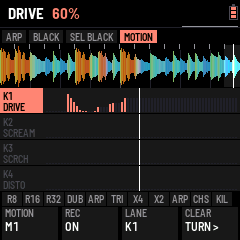
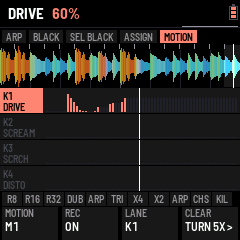
ARP › ASSIGN: the SEL + K1-K4 functions next to MOTION (KICK › MORE's kept)
Claude-Session: https://claude.ai/code/session_01SezACdoJJxH9cT2JHvLkit

Changed region(s): [[0.4958, 0.1167, 0.8458, 0.2042], [0.875, 0.9042, 0.9625, 0.9625]]

diff --git a/app/site/controlmap.html b/app/site/controlmap.html
@@ -237,6 +237,7 @@
     { id: "arp", btn: "ARP", name: "ARP", sub: "Sixteen effects over everything; the black keys' layout", again: "back to HOME (SELECT: its tabs ARP, BLACK, SEL BLACK, EXPERT)", subs: [
       { n: "ARP", k: ["AMOUNT", "THRU", "RATE / SWEEP", "LATCH"], strip: "SIXTEEN EFFECTS, ONE A WHITE KEY: LIT WHILE THEY SOUND · BREAK / KICK: ITS THRU", note: "ALGORITHM: the 16 effects in order (0.9.52; SEL + ALGO the break); held, or LATCH on: a key switches its effect on and off; K1-K3 the effect touched last: THRU BREAK, KICK or THRU (the whole mix), each effect its own (0.9.50), saved" },
       { n: "BLACK", k: ["PRESET", "KEY (ALGO too)", "EFFECT", ""], strip: "THE TWELVE BLACK KEYS (THE REC KEY LAST) AND WHAT EACH DOES · THE KEY EDITED · THE PRESET", note: "EXPERT; K1 CHOPPAH, FLEXOR LAYOUT (R8 R16 R32 DUB ARP TRI X4 X2 ARP CHS KIL, REC VNL; with SEL: key 4 ARP, 5 GAT, 6 FLT, 7 RND, 8 FRZ, 9 SUB, 10 DST, REC KBR), CUSTOM; a black key pressed picks itself; K3 on a preset: a CUSTOM copy; K4 an ARP key's own effect" },
+      { n: "ASSIGN", k: ["SEL + K1", "SEL + K2", "SEL + K3", "SEL + K4"], strip: "EACH SEL KNOB: ITS FUNCTION, ITS VALUE, A BAR", note: "0.9.85: K1-K4 what SEL + that knob turns (as KICK › MORE › K1-K4 SET); PRESETS the styles and PRESET 1-4" },
       { n: "MOTION", k: ["MOTION", "REC", "LANE (ALGO too)", "CLEAR"], strip: "THE FOUR LANES (SEL + K1-K4): EACH ITS FUNCTION AND ITS 64 STEPS, THE STEP PLAYING", note: "A TEST (0.9.85): REC ON and playing, SEL + K1-K4 turned are written into the pattern's motion and played back each loop; K1 the pattern's motion OFF / M1-M4, K4 five detents right clears the lane (or ALL)" },
       { n: "SEL BLACK", k: ["", "KEY (ALGO too)", "SEL +", ""], strip: "THE TWELVE BLACK KEYS (THE REC KEY LAST) AND WHAT EACH DOES WITH SEL · THE KEY EDITED · WITHOUT SEL", note: "EXPERT (0.9.49); each black key a second function, pressed with SEL held or locked (0.9.70: the REC key too, last; any function but ARP); ITS OWN: as without SEL; a black key pressed picks itself" },
       algo: "ARP: the 16 effects in order (SEL: the break) · the other tabs: the key", presets: "Pattern P1–P64 (SEL: the kick)", keys: "16 effects", sel: "EXPERT: the next tab, ARP, BLACK, SEL BLACK (BEGINNER: tempo)",

diff --git a/app/ui/main.c b/app/ui/main.c
@@ -626,7 +626,7 @@ static void enc_one(int k, int32_t d, uint32_t btn)   /* an encoder turned d (in
         return;
     }
     if (k == EN_SELECT && ui.page == PG_OVL && !set.novice) {   /* (0.9.2, FLEXOR: OVERLAY, SELECT its tabs) */
-        ui.opage = (uint8_t)((ui.opage + (d > 0 ? 1u : 3u)) % 4u);   /* (0.9.85: MOTION, the fourth) */   /* (0.9.52, FLEXOR: both ways; 0.9.71 SEL WHITE
+        ui.opage = (uint8_t)((ui.opage + (d > 0 ? 1u : 4u)) % 5u);   /* (0.9.85: ASSIGN, then MOTION) */   /* (0.9.52, FLEXOR: both ways; 0.9.71 SEL WHITE
                                       * and KITS gone: ARP, BLACK, SEL BLACK) */
         page_say();
         ui.redraw |= RG_HEAD | RG_BLOCKS | RG_FOOT;
@@ -681,8 +681,10 @@ static void enc_one(int k, int32_t d, uint32_t btn)   /* an encoder turned d (in
         else if (ui.page == PG_OVL && !ui.opage)
             ovl_step(d);             /* (0.9.52, FLEXOR: ARP, ALGORITHM the 16 effects in order; SEL + ALGORITHM
                                       * the break there) */
+        else if (ui.page == PG_OVL && ui.opage == 4u)
+            mo_turn(2, d);
         else if (ui.page == PG_OVL && ui.opage == 3u)
-            mo_turn(2, d);           /* (0.9.85: MOTION, ALGORITHM the lane, as K3) */
+            ;                        /* (0.9.85: ASSIGN, nothing) */           /* (0.9.85: MOTION, ALGORITHM the lane, as K3) */
         else if (ui.page == PG_OVL && ui.opage >= 1u)
             bk_turn(1, d);           /* (0.9.26, FLEXOR: ARP › BLACK KEYS, ALGORITHM the key, as K2) */
         else if (ui.page == PG_TRACK && ui.tpage == 0u)
@@ -759,6 +761,10 @@ static void enc_one(int k, int32_t d, uint32_t btn)   /* an encoder turned d (in
     else if (k == EN_PRESET && ui.page == PG_FX)
         fx_type_turn(d);   /* the focused slot's effect (LOAF
                                       * BREAKER: BEGINNER, a whole scene) */
+    else if (k == EN_PRESET && ui.page == PG_OVL && ui.opage == 3u) {
+        kstyle_turn(d);              /* (0.9.85: ARP › ASSIGN, PRESETS the styles and PRESET 1-4, as KICK › MORE › ASSIGN) */
+        ui.redraw |= RG_BLOCKS | RG_FOOT;
+    }
     else if (k == EN_PRESET && ui.page == PG_PERC)   /* LOAF BREAKER: the snare's, hat's or clap's memories */
         perc_mem_turn(ui.pvoice, d);
     else if (k == EN_PRESET && ui.page == PG_KICK) {   /* LOAF BREAKER: the kick memories; on KNOBS' K1 SET ..
@@ -1919,7 +1925,7 @@ static void knob_value(int i, char *t)  /* the page's knob i (0..3), as shown un
 /* the tab bar under the header: the button's name, then the page's parts as tabs (the one you are on lit: the
  * button again, or ALGORITHM, goes to the next); EDIT and FX also name the part edited, "< SUB FX >" */
 static int8_t build_stut = -1;          /* (a build's break roll: the roll pad it holds, -1 none) */
-static const char *const OPAGE_NAME[4] = {"ARP", "BLACK", "SEL BLACK", "MOTION"};   /* (0.9.85: MOTION, a TEST) */   /* (0.9.53, FLEXOR: BLACK, there is room) */   /* (SETTINGS 0.9.50-0.9.51) */   /* (LOAF BREAKER: ARP's tabs) */
+static const char *const OPAGE_NAME[5] = {"ARP", "BLACK", "SEL BLACK", "ASSIGN", "MOTION"};   /* (0.9.85: MOTION, a TEST) */   /* (0.9.53, FLEXOR: BLACK, there is room) */   /* (SETTINGS 0.9.50-0.9.51) */   /* (LOAF BREAKER: ARP's tabs) */
 #if LB_BIG
 /* (LOAF BREAKER's VST, 24 Nov 2026, FLEXOR: "des contrôles contextuels qui affichent ce qu'ils modifient": the tabs and
  * the part as the screen draws them, noted for the VST's own interface: lbcore.c) */
@@ -1992,7 +1998,7 @@ static void draw_tabs(void)
             x = tab_glo(x, GLO_ORD[i], GLO_ORD[i] == GLO_HSET);
     else if (ui.page == PG_OVL) {        /* (LOAF BREAKER: EXPERT, its three tabs; BEGINNER, ARP EFFECTS alone: no tab) */
         if (!set.novice)
-            for (i = 0; i < 4u; i++)     /* (0.259, FLEXOR: MORE gone for now; 0.9.49 SEL KEYS; SEL WHITE and KITS
+            for (i = 0; i < 5u; i++)     /* (0.259, FLEXOR: MORE gone for now; 0.9.49 SEL KEYS; SEL WHITE and KITS
                                           * 0.9.50-0.9.70) */
                 x = tab(x, OPAGE_NAME[i], i == ui.opage);
     }
@@ -2090,7 +2096,7 @@ static void page_say(void)
     case PG_MIX: text_cat(t, ui.mpage == 3u ? "DYNAMICS" : ui.mpage == 2u ? "MASTER" : ui.mpage ? "ROUTING" : "LEVELS"); break;
     case PG_SEQ: text_cat(t, SEQ_BRK ? "BREAK" : SEQ_LANE_NAME[ui.seq_lane % NSEQL]); break;
     case PG_TRACK: text_cat(t, TPART[ui.tpage % NTPART]); break;
-    case PG_OVL: text_cat(t, ui.opage % 4u ? OPAGE_NAME[ui.opage % 4u] : "EFFECTS"); break;   /* (LOAF BREAKER: its tabs;
+    case PG_OVL: text_cat(t, ui.opage == 3u ? "KNOB ASSIGN" : ui.opage % 5u ? OPAGE_NAME[ui.opage % 5u] : "EFFECTS"); break;   /* (LOAF BREAKER: its tabs;
                                           * 0.9.69: its first EFFECTS, not "ARP ARP") */
     case PG_FX:
         text_cat(t, IS_KFX() ? "KICK FX " : "SLOT ");
@@ -2240,7 +2246,8 @@ static const char *knob_name(int i)
                                               {"", "KEY", "KIND", "VALUE"}};   /* (ARP's
                                       * BLACK KEYS, MORE) */
     static const char *const KN_LIGHTS[4] = {"GLOW", "PULSE", "PULSE ON", "STYLE"};   /* (0.9.57: SYSTEM › LIGHTS) */
-    const char *name = ui.page == PG_OVL && ui.opage == 3u ? MO_KNOB[i] : ui.page == PG_OVL && ui.opage ? KN_BK[(ui.opage - 1u) % 2u][i] :
+    static const char *const AS_KNOB[4] = {"SEL+K1", "SEL+K2", "SEL+K3", "SEL+K4"};
+    const char *name = ui.page == PG_OVL && ui.opage == 4u ? MO_KNOB[i] : ui.page == PG_OVL && ui.opage == 3u ? AS_KNOB[i] : ui.page == PG_OVL && ui.opage ? KN_BK[(ui.opage - 1u) % 2u][i] :
                        ui.page == PG_GLOBAL && ui.gpage == GP_FILL ? KN_FILL[i] : ui.page == PG_GLOBAL &&
                        ui.gpage == GP_LIGHTS ? KN_LIGHTS[i] : RST_ON ? KN_TRK[3][i] : ui.page == PG_TRACK &&
                        ui.tpage ? KN_TRK[ui.tpage == 7u ? 5u : ui.tpage == 6u ? 4u : ui.tpage == 4u ? 2u : (ui.tpage - 1u) & 1u][i] : ui.page == PG_GLOBAL &&

diff --git a/app/ui/track.c b/app/ui/track.c
@@ -2106,7 +2106,7 @@ static void mo_rec(uint32_t kn)          /* SEL + K(kn + 1) turned: written, REC
     mo.v[m][kn][(uint32_t)st.bar64 % MO_STEPS] = (uint8_t)(sk_norm(f, 0) * 254.0f + 0.5f);
     mo_hand[kn] = plat_ms() | 1u;
     set_dirty = 1u;
-    if (ui.page == PG_OVL && ui.opage == 3u)
+    if (ui.page == PG_OVL && ui.opage == 4u)
         ui.redraw |= RG_BLOCKS;
 }
 static void mo_frame(const brk_status_t *st)   /* each frame: a new step, the pattern's motion played there */
@@ -2116,7 +2116,7 @@ static void mo_frame(const brk_status_t *st)   /* each frame: a new step, the pa
     if (s == mo_last)
         return;
     mo_last = (int8_t)s;
-    if (ui.page == PG_OVL && ui.opage == 3u)
+    if (ui.page == PG_OVL && ui.opage == 4u)
         ui.redraw |= RG_BLOCKS;          /* (its playhead) */
     if (s < 0 || !m)
         return;
@@ -2228,6 +2228,45 @@ static void draw_motion(void)
             }
             if (st.playing && st.bar64 >= 0)
                 cv_rect(46 + st.bar64 % (int)MO_STEPS * 3, y, 1, h, C_WHITE);
+        }
+        cv_blit(0, 88u + band * 52u);
+    }
+}
+
+/* ---- ARP › ASSIGN (0.9.85, FLEXOR: "dans ARP un nouvel onglet Knob assign ... avant motion"; KICK › MORE's kept as
+ * it is): K1-K4 the function SEL + K1..K4 turn (as K1-K4 SET's PRESETS), PRESETS the styles and PRESET 1-4 (as
+ * ASSIGN's); the page each knob's function, its value and its bar ---- */
+static void as_value(int i, char *t)
+{
+    t[0] = 0;
+    text_cat(t, sk_short(selk_fn((uint32_t)i & 3u)));
+}
+static void as_turn(int i, int32_t d) { selk_assign_k((uint32_t)i & 3u, d); }
+static void draw_assign(void)
+{
+    uint32_t band, k;
+    char t[16];
+    for (band = 0; band < 2u; band++) {
+        cv_begin(240, 52, C_BLACK);
+        for (k = band * 2u; k < band * 2u + 2u; k++) {
+            int32_t y = (int32_t)(k % 2u) * 26, h = 25, w;
+            uint32_t f = selk_fn(k);
+            float n = sk_norm(f, 0);
+            cv_rect(0, y, 240, h, C_BLOCK);
+            cv_rect(0, y, 43, h, C_BLOCK_HI);
+            t[0] = 0;
+            text_cat(t, "SEL +");
+            cv_text(3, y + 2, &FONT_T, t, C_BLACK);
+            t[0] = 0;
+            text_cat(t, "K");
+            int_text((int32_t)k + 1, t + 1);
+            cv_text(3, y + 13, &FONT_T, t, C_BLACK);
+            cv_text(48, y + 2, &FONT_XS, SK_NAME[f % SK_N], C_WHITE);
+            selk_value(f, 0, t);
+            w = text_w(&FONT_XS, t);
+            cv_text(236 - w, y + 2, &FONT_XS, t, C_HI);
+            cv_rect(48, y + h - 5, 188, 3, C_LINE);
+            cv_rect(48, y + h - 5, (int32_t)(n * 188.0f + 0.5f), 3, C_HI);
         }
         cv_blit(0, 88u + band * 52u);
     }

diff --git a/app/ui/ovl.c b/app/ui/ovl.c
@@ -323,11 +323,18 @@ static void ovl_step(int32_t d)          /* (0.9.52, FLEXOR: ALGORITHM, the effe
 static void mo_value(int i, char *t);   /* (0.9.85: ARP › MOTION, track.c) */
 static void mo_turn(int i, int32_t d);
 static void draw_motion(void);
+static void as_value(int i, char *t);   /* (0.9.85: ARP › ASSIGN, track.c) */
+static void as_turn(int i, int32_t d);
+static void draw_assign(void);
 static void ovl_value(int i, char *t)
 {
     t[0] = 0;
-    if (ui.opage == 3u) {
+    if (ui.opage == 4u) {
         mo_value(i, t);
+        return;
+    }
+    if (ui.opage == 3u) {
+        as_value(i, t);
         return;
     }
     if (ui.opage >= 1u) {                /* (BLACK KEYS; 0.9.49 SEL KEYS) */
@@ -353,8 +360,12 @@ static void ovl_value(int i, char *t)
 static void ovl_turn(int i, int32_t d)
 {
     char t[16];
-    if (ui.opage == 3u) {
+    if (ui.opage == 4u) {
         mo_turn(i, d);
+        return;
+    }
+    if (ui.opage == 3u) {
+        as_turn(i, d);
         return;
     }
     if (ui.opage >= 1u) {
@@ -394,8 +405,12 @@ static void draw_ovl(void)
 {
     uint32_t band, i, on = ovl_sounding() | ovl_held | ovl_latched | ovl_pad_bits();
     char t[4];
-    if (ui.opage == 3u) {                /* (0.9.85: MOTION) */
+    if (ui.opage == 4u) {                /* (0.9.85: MOTION) */
         draw_motion();
+        return;
+    }
+    if (ui.opage == 3u) {                /* (0.9.85: ASSIGN) */
+        draw_assign();
         return;
     }
     if (ui.opage >= 1u) {                /* (BLACK KEYS; 0.9.49 SEL KEYS) */

diff --git a/app/docs/MANUAL.md b/app/docs/MANUAL.md
@@ -596,12 +596,21 @@ animation of what it does, and **K1–K4 tune that pad** (the foot shows its set
 ![ROLL held: the caught slice repeating, each copy quieter](img/pad-roll8.png "ROLL held")
 ![VINYL BREAK held: the platter slowing down](img/pad-stop.png "VINYL BREAK held")
 
+### KNOB ASSIGN (0.9.85)
+
+**ARP › ASSIGN** (EXPERT, ARP's fourth tab) is where SEL + K1–K4 get their function, next to MOTION that records them:
+**K1–K4** each pick what SEL + that knob turns (the same list as KICK › MORE › K1–K4 SET, which stays where it was),
+**PRESETS** goes through the styles and PRESET 1–4 (as KICK › MORE › ASSIGN). The page shows each knob's function, its
+value and a bar. The functions are the kick playing's, as everywhere.
+
+![ARP › ASSIGN: SEL + K1 on PRE LOW](img/arpassign.png "KNOB ASSIGN")
+
 ### MOTION (a TEST, 0.9.85)
 
-**ARP › MOTION** (EXPERT, ARP's fourth tab) records your knob moves and plays them back over the pattern: turn K2
+**ARP › MOTION** (EXPERT, ARP's fifth tab, after ASSIGN) records your knob moves and plays them back over the pattern: turn K2
 **REC** ON, press PLAY, then turn **SEL + K1–K4**. Each one's move is written at the step playing, over the pattern's
 64 steps (four bars), and comes back every time the pattern loops. What gets recorded is whatever the four SEL knobs
-do (KICK › MORE › K1–K4 SET): the kick's DRIVE, DISTO, SCREAM, SUB DRIVE, DECAY, PITCH DROP, PUNCH, the drums' filter, the
+do (ARP › ASSIGN, or KICK › MORE › K1–K4 SET): the kick's DRIVE, DISTO, SCREAM, SUB DRIVE, DECAY, PITCH DROP, PUNCH, the drums' filter, the
 PRE EQ's gains and frequencies, the break's filter (BRK FLT)… Each lane keeps the function it was recorded with; recording another function on a lane replaces it.
 Between two written steps the value holds. While you turn a knob, its own lane waits for your hand.
 

diff --git a/CLAUDE.md b/CLAUDE.md
@@ -149,9 +149,13 @@ E-*, N-*; milestones M0–M8). Keep the PRD in step when scope changes.
   PRE LOW / MID / HIGH (kx2.px eq_g, 1 dB a detent), 25-27 their frequencies (eq_f, a semitone; KPX_FLO..FHI), 28 BRK FLT
   (set.fx.dj, brk_flt_turn: its own say); SK_N / SK_CODES 29 (codes to 29: selk_hi's fifth bit holds up to 31; two more
   at most), `SK_PRE`, `SK_BFLT`. Scenario skpre.
+- ARP › ASSIGN (26 Nov 2026, 0.9.85, FLEXOR: "dans ARP un nouvel onglet Knob assign ... avant motion ... ne modifie
+  pas l'autre"): ui.opage 3 (OPAGE_NAME "ASSIGN", the header KNOB ASSIGN), track.c `as_value` / `as_turn` (selk_assign_k)
+  / `draw_assign`; PRESETS kstyle_turn; ALGORITHM nothing; KICK › MORE's KNOBS, ASSIGN, K1-K4 SET untouched. MOTION is
+  opage 4 since. Scenario arpassign.
 - MOTION (26 Nov 2026, 0.9.85, a TEST, FLEXOR, from issue #5: "motion control recording ... in Edit Mode ... and for the
   white/black key effects"; his choices: SEL + K1-K4 and BRK FLT, four motions, each pattern its own, "utiliser un motion
-  sur l'étendue d'un pattern de 64 steps"; he wants feedback before more): ARP's fourth tab (ui.opage 3, OPAGE_NAME,
+  sur l'étendue d'un pattern de 64 steps"; he wants feedback before more): ARP's fifth tab (ui.opage 4 since ASSIGN, OPAGE_NAME,
   EXPERT), track.c's end `mo_*`: REC (`mo_arm`, RAM only) and playing, main.c's SEL + K1-K4 turn calls `mo_rec`: the
   function's sk_norm 0..254 written at st.bar64 into the pattern's motion (none: the first free taken; a lane with another
   function cleared first); main.c's frame `mo_frame`: each new step, the lanes' written values put back (`mo_put`:

diff --git a/docs/NEXT.md b/docs/NEXT.md
@@ -3,3 +3,4 @@ the release's notes. Emptied (this comment kept) once the release is out. -->
 - KIL: its K2 MUTES picks what it quiets, KICKS (as before), DRUMS (snare, hat, clap) or ALL; with its LATCH (K1), a press quiets them and the next brings them back.
 - Knob functions (KICK › MORE › K1-K4 SET, then SEL + K1-K4): the PRE EQ's LOW, MID and HIGH gains and their frequencies, and BRK FLT (the break's DJ filter): sculpt the kick live.
 - MOTION (a TEST): ARP's new tab records SEL + K1-K4's moves (REC on, playing) over the pattern's 64 steps and plays them back every loop; four motions, each pattern picks its own (K1).
+- ARP › ASSIGN: the SEL + K1-K4 functions picked next to MOTION (K1-K4, PRESETS the styles); KICK › MORE keeps its own.
